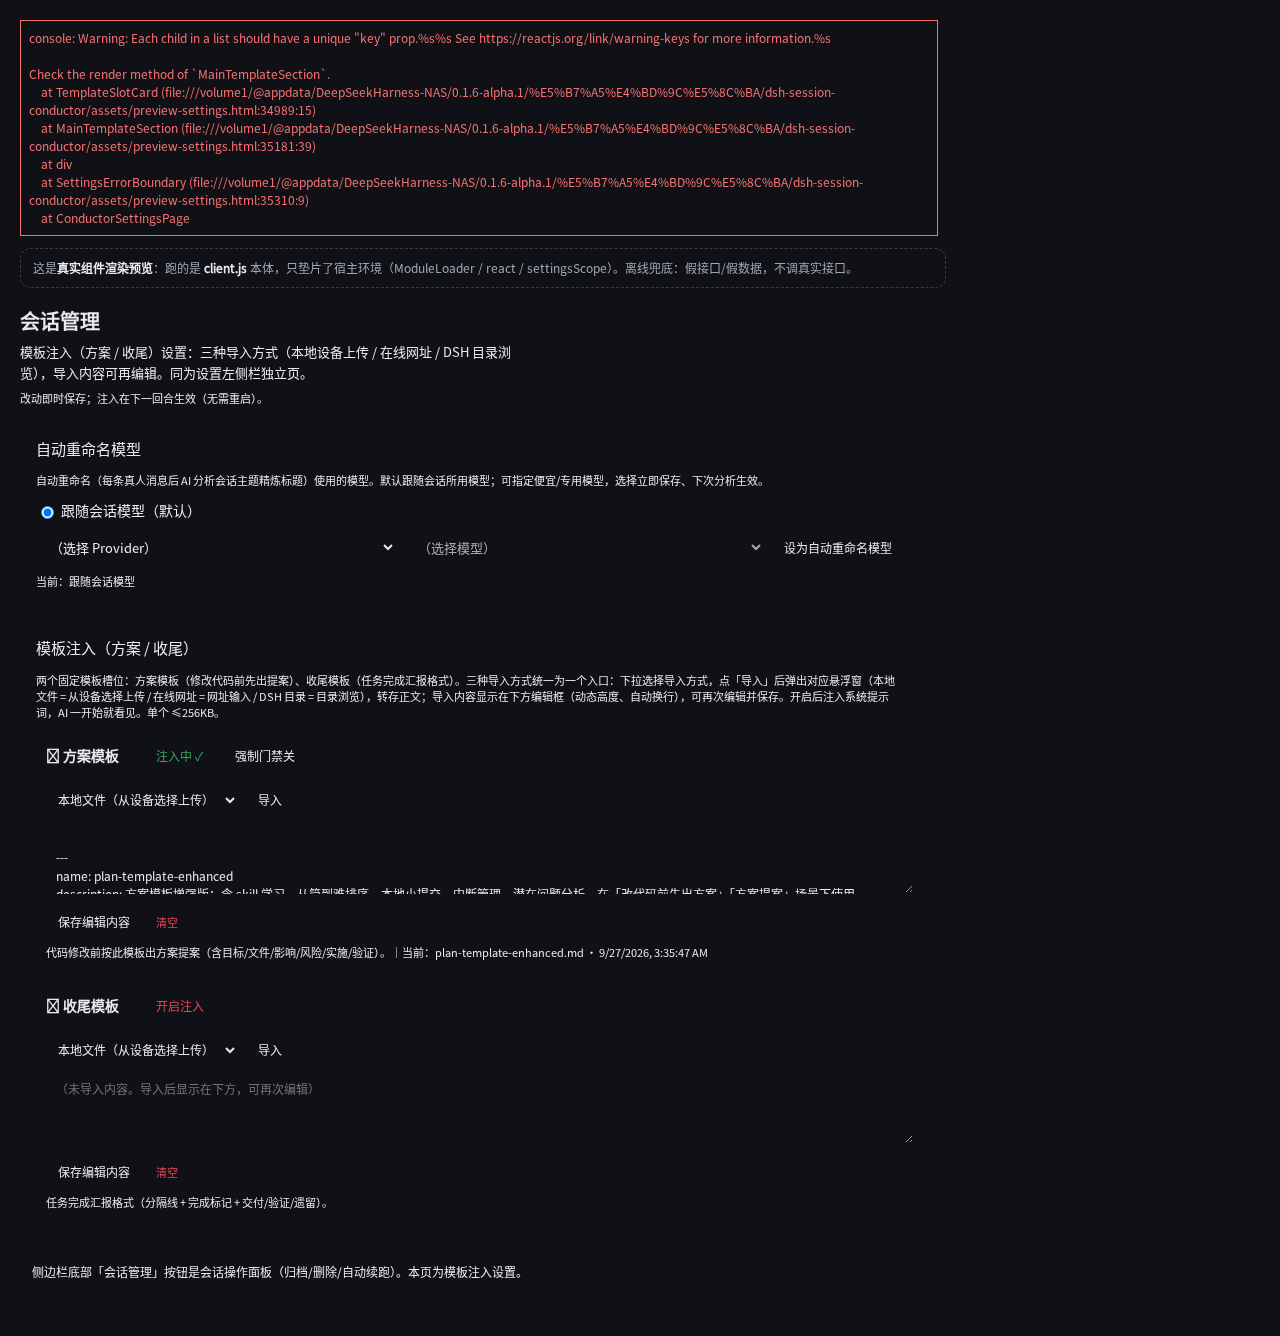
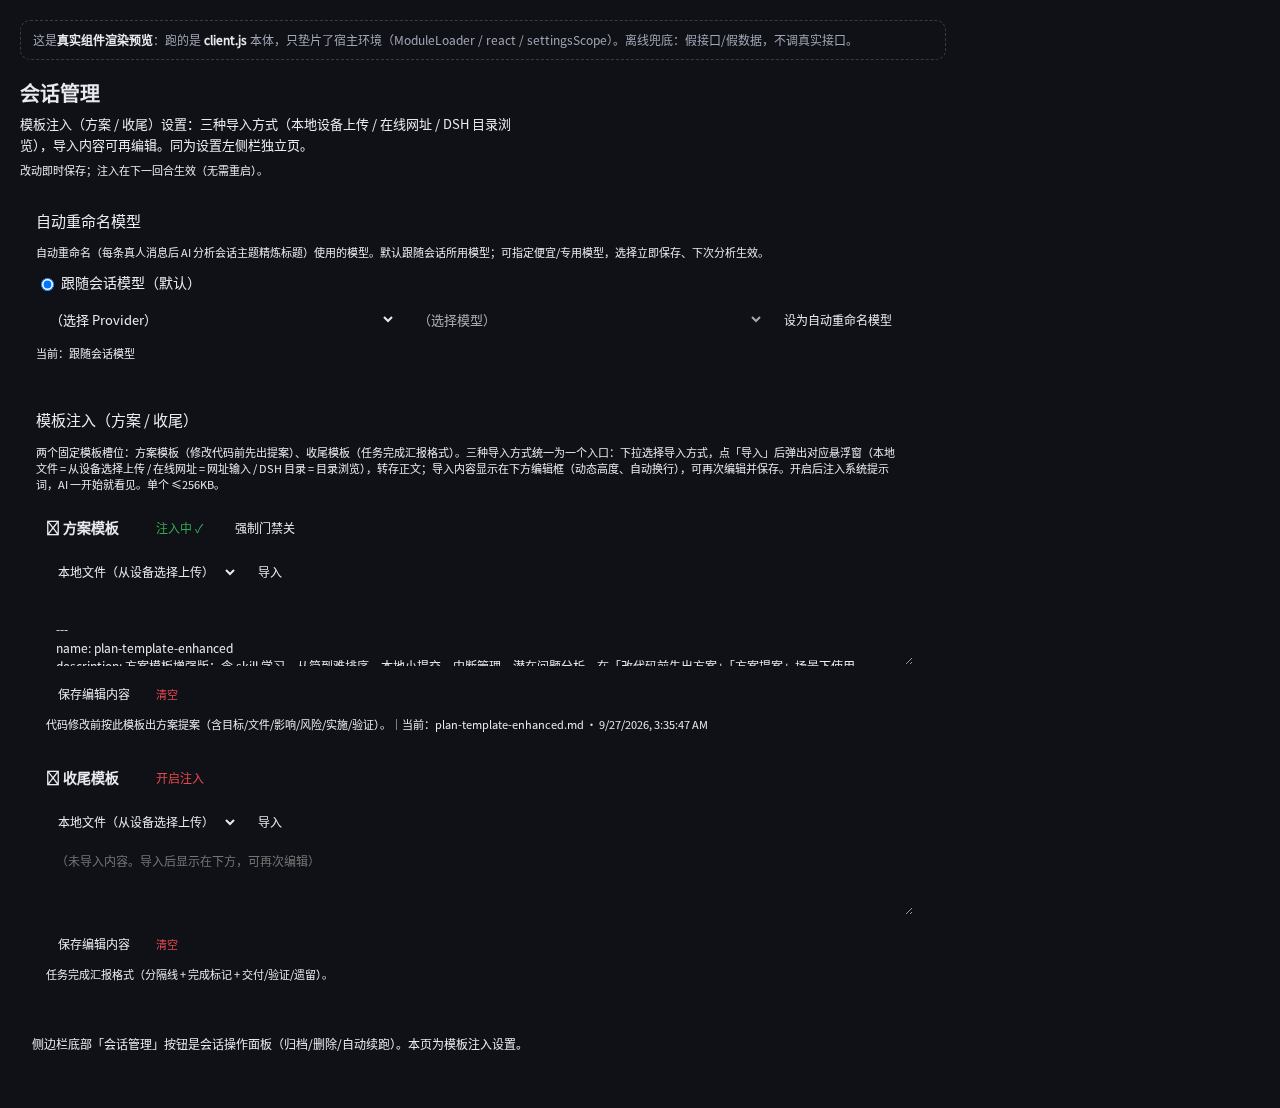
fix(ui): MainTemplateSection 渲染 TemplateSlotCard 列表补 key prop（plan/closing），消除 React 'unique key' 运行时警告（重构拆分时遗漏）；client.js 由 build 重生成 + 预览快照与截图重建（dump DOM 验证无 console 警告）

diff --git a/assets/preview-panel.html b/assets/preview-panel.html
@@ -33433,9 +33433,10 @@ window.__ModuleLoader__.load({
 
     // 全局 fetch 超时兜底：DSH API 挂起（重负载/路由未注册）时界面不再无限等待。
     // 与 fetch 同签名（url, opts, timeoutMs），默认 30s；分片统一走 __scFetch。
+    const FETCH_TIMEOUT_MS = 30000;
     window.__scFetch = function (url, opts, timeoutMs) {
       const controller = new AbortController();
-      const timer = setTimeout(() => controller.abort(), timeoutMs || 30000);
+      const timer = setTimeout(() => controller.abort(), timeoutMs || FETCH_TIMEOUT_MS);
       const next = opts ? Object.assign({}, opts, { signal: controller.signal }) : { signal: controller.signal };
       return fetch(url, next).finally(() => clearTimeout(timer));
     };
@@ -34077,8 +34078,10 @@ window.__ModuleLoader__.load({
           }
           await refresh();
           // 续跑进行中：轮询刷新几次以反映 continueRunning / running 状态
-          for (let i = 0; i < 6; i++) {
-            await new Promise((resolve) => setTimeout(resolve, 3000));
+          const POLL_TIMES = 6;              // 续跑后轮询刷新次数
+          const POLL_INTERVAL_MS = 3000;     // 轮询间隔
+          for (let i = 0; i < POLL_TIMES; i++) {
+            await new Promise((resolve) => setTimeout(resolve, POLL_INTERVAL_MS));
             await refresh();
           }
         } catch (cause) {
@@ -34090,6 +34093,7 @@ window.__ModuleLoader__.load({
       };
 
       // —— v1.19.0：全文搜索（官方 FTS5 优先，不可用时降级内置扫描）——
+      const SEARCH_LIMIT = 50; // 单次搜索最大返回条数
       const runFullSearch = async (keyword) => {
         const q = String(keyword ?? query ?? "").trim();
         if (q.length < 2) return;
@@ -34099,7 +34103,7 @@ window.__ModuleLoader__.load({
           let res = await window.__scFetch("/api/session-search/query", {
             method: "POST",
             headers: { "Content-Type": "application/json" },
-            body: JSON.stringify({ query: q, limit: 50 }),
+            body: JSON.stringify({ query: q, limit: SEARCH_LIMIT }),
           });
           let body = res.ok ? await res.json() : null;
           let usedFallback = false;
@@ -35194,14 +35198,14 @@ window.__ModuleLoader__.load({
         h("div", { className: "scs_hint" }, __SC_TR__("tpl.desc")),
         (slots ? [
           h(TemplateSlotCard, {
-            slot: "plan", title: __SC_TR__("tpl.planTitle"), desc: __SC_TR__("tpl.planDesc"),
+            key: "plan", slot: "plan", title: __SC_TR__("tpl.planTitle"), desc: __SC_TR__("tpl.planDesc"),
             m: slots.plan || { enabled: false, enforce: false, name: "", url: "", bytes: 0, updatedAt: 0, content: "" },
             busy, edits, importMode, fileRef: fileRefs.plan, MODES: TEMPLATE_MODES,
             onToggle: muts.toggle, onToggleEnforce: muts.toggleEnforce, onOpenImport: imports.openImport, onPickFile: imports.onPickFile, onEdit: muts.onEdit, onSaveEdit: muts.saveEdit, onRemove: muts.onRemove,
             onImportMode: (s, v) => setImportMode((prev) => ({ ...prev, [s]: v })),
           }),
           h(TemplateSlotCard, {
-            slot: "closing", title: __SC_TR__("tpl.closingTitle"), desc: __SC_TR__("tpl.closingDesc"),
+            key: "closing", slot: "closing", title: __SC_TR__("tpl.closingTitle"), desc: __SC_TR__("tpl.closingDesc"),
             m: slots.closing || { enabled: false, enforce: false, name: "", url: "", bytes: 0, updatedAt: 0, content: "" },
             busy, edits, importMode, fileRef: fileRefs.closing, MODES: TEMPLATE_MODES,
             onToggle: muts.toggle, onToggleEnforce: muts.toggleEnforce, onOpenImport: imports.openImport, onPickFile: imports.onPickFile, onEdit: muts.onEdit, onSaveEdit: muts.saveEdit, onRemove: muts.onRemove,

diff --git a/assets/preview-settings.html b/assets/preview-settings.html
@@ -33433,9 +33433,10 @@ window.__ModuleLoader__.load({
 
     // 全局 fetch 超时兜底：DSH API 挂起（重负载/路由未注册）时界面不再无限等待。
     // 与 fetch 同签名（url, opts, timeoutMs），默认 30s；分片统一走 __scFetch。
+    const FETCH_TIMEOUT_MS = 30000;
     window.__scFetch = function (url, opts, timeoutMs) {
       const controller = new AbortController();
-      const timer = setTimeout(() => controller.abort(), timeoutMs || 30000);
+      const timer = setTimeout(() => controller.abort(), timeoutMs || FETCH_TIMEOUT_MS);
       const next = opts ? Object.assign({}, opts, { signal: controller.signal }) : { signal: controller.signal };
       return fetch(url, next).finally(() => clearTimeout(timer));
     };
@@ -34077,8 +34078,10 @@ window.__ModuleLoader__.load({
           }
           await refresh();
           // 续跑进行中：轮询刷新几次以反映 continueRunning / running 状态
-          for (let i = 0; i < 6; i++) {
-            await new Promise((resolve) => setTimeout(resolve, 3000));
+          const POLL_TIMES = 6;              // 续跑后轮询刷新次数
+          const POLL_INTERVAL_MS = 3000;     // 轮询间隔
+          for (let i = 0; i < POLL_TIMES; i++) {
+            await new Promise((resolve) => setTimeout(resolve, POLL_INTERVAL_MS));
             await refresh();
           }
         } catch (cause) {
@@ -34090,6 +34093,7 @@ window.__ModuleLoader__.load({
       };
 
       // —— v1.19.0：全文搜索（官方 FTS5 优先，不可用时降级内置扫描）——
+      const SEARCH_LIMIT = 50; // 单次搜索最大返回条数
       const runFullSearch = async (keyword) => {
         const q = String(keyword ?? query ?? "").trim();
         if (q.length < 2) return;
@@ -34099,7 +34103,7 @@ window.__ModuleLoader__.load({
           let res = await window.__scFetch("/api/session-search/query", {
             method: "POST",
             headers: { "Content-Type": "application/json" },
-            body: JSON.stringify({ query: q, limit: 50 }),
+            body: JSON.stringify({ query: q, limit: SEARCH_LIMIT }),
           });
           let body = res.ok ? await res.json() : null;
           let usedFallback = false;
@@ -35194,14 +35198,14 @@ window.__ModuleLoader__.load({
         h("div", { className: "scs_hint" }, __SC_TR__("tpl.desc")),
         (slots ? [
           h(TemplateSlotCard, {
-            slot: "plan", title: __SC_TR__("tpl.planTitle"), desc: __SC_TR__("tpl.planDesc"),
+            key: "plan", slot: "plan", title: __SC_TR__("tpl.planTitle"), desc: __SC_TR__("tpl.planDesc"),
             m: slots.plan || { enabled: false, enforce: false, name: "", url: "", bytes: 0, updatedAt: 0, content: "" },
             busy, edits, importMode, fileRef: fileRefs.plan, MODES: TEMPLATE_MODES,
             onToggle: muts.toggle, onToggleEnforce: muts.toggleEnforce, onOpenImport: imports.openImport, onPickFile: imports.onPickFile, onEdit: muts.onEdit, onSaveEdit: muts.saveEdit, onRemove: muts.onRemove,
             onImportMode: (s, v) => setImportMode((prev) => ({ ...prev, [s]: v })),
           }),
           h(TemplateSlotCard, {
-            slot: "closing", title: __SC_TR__("tpl.closingTitle"), desc: __SC_TR__("tpl.closingDesc"),
+            key: "closing", slot: "closing", title: __SC_TR__("tpl.closingTitle"), desc: __SC_TR__("tpl.closingDesc"),
             m: slots.closing || { enabled: false, enforce: false, name: "", url: "", bytes: 0, updatedAt: 0, content: "" },
             busy, edits, importMode, fileRef: fileRefs.closing, MODES: TEMPLATE_MODES,
             onToggle: muts.toggle, onToggleEnforce: muts.toggleEnforce, onOpenImport: imports.openImport, onPickFile: imports.onPickFile, onEdit: muts.onEdit, onSaveEdit: muts.saveEdit, onRemove: muts.onRemove,

diff --git a/lib/client-parts/components/settings.js b/lib/client-parts/components/settings.js
@@ -267,14 +267,14 @@
         h("div", { className: "scs_hint" }, __SC_TR__("tpl.desc")),
         (slots ? [
           h(TemplateSlotCard, {
-            slot: "plan", title: __SC_TR__("tpl.planTitle"), desc: __SC_TR__("tpl.planDesc"),
+            key: "plan", slot: "plan", title: __SC_TR__("tpl.planTitle"), desc: __SC_TR__("tpl.planDesc"),
             m: slots.plan || { enabled: false, enforce: false, name: "", url: "", bytes: 0, updatedAt: 0, content: "" },
             busy, edits, importMode, fileRef: fileRefs.plan, MODES: TEMPLATE_MODES,
             onToggle: muts.toggle, onToggleEnforce: muts.toggleEnforce, onOpenImport: imports.openImport, onPickFile: imports.onPickFile, onEdit: muts.onEdit, onSaveEdit: muts.saveEdit, onRemove: muts.onRemove,
             onImportMode: (s, v) => setImportMode((prev) => ({ ...prev, [s]: v })),
           }),
           h(TemplateSlotCard, {
-            slot: "closing", title: __SC_TR__("tpl.closingTitle"), desc: __SC_TR__("tpl.closingDesc"),
+            key: "closing", slot: "closing", title: __SC_TR__("tpl.closingTitle"), desc: __SC_TR__("tpl.closingDesc"),
             m: slots.closing || { enabled: false, enforce: false, name: "", url: "", bytes: 0, updatedAt: 0, content: "" },
             busy, edits, importMode, fileRef: fileRefs.closing, MODES: TEMPLATE_MODES,
             onToggle: muts.toggle, onToggleEnforce: muts.toggleEnforce, onOpenImport: imports.openImport, onPickFile: imports.onPickFile, onEdit: muts.onEdit, onSaveEdit: muts.saveEdit, onRemove: muts.onRemove,
